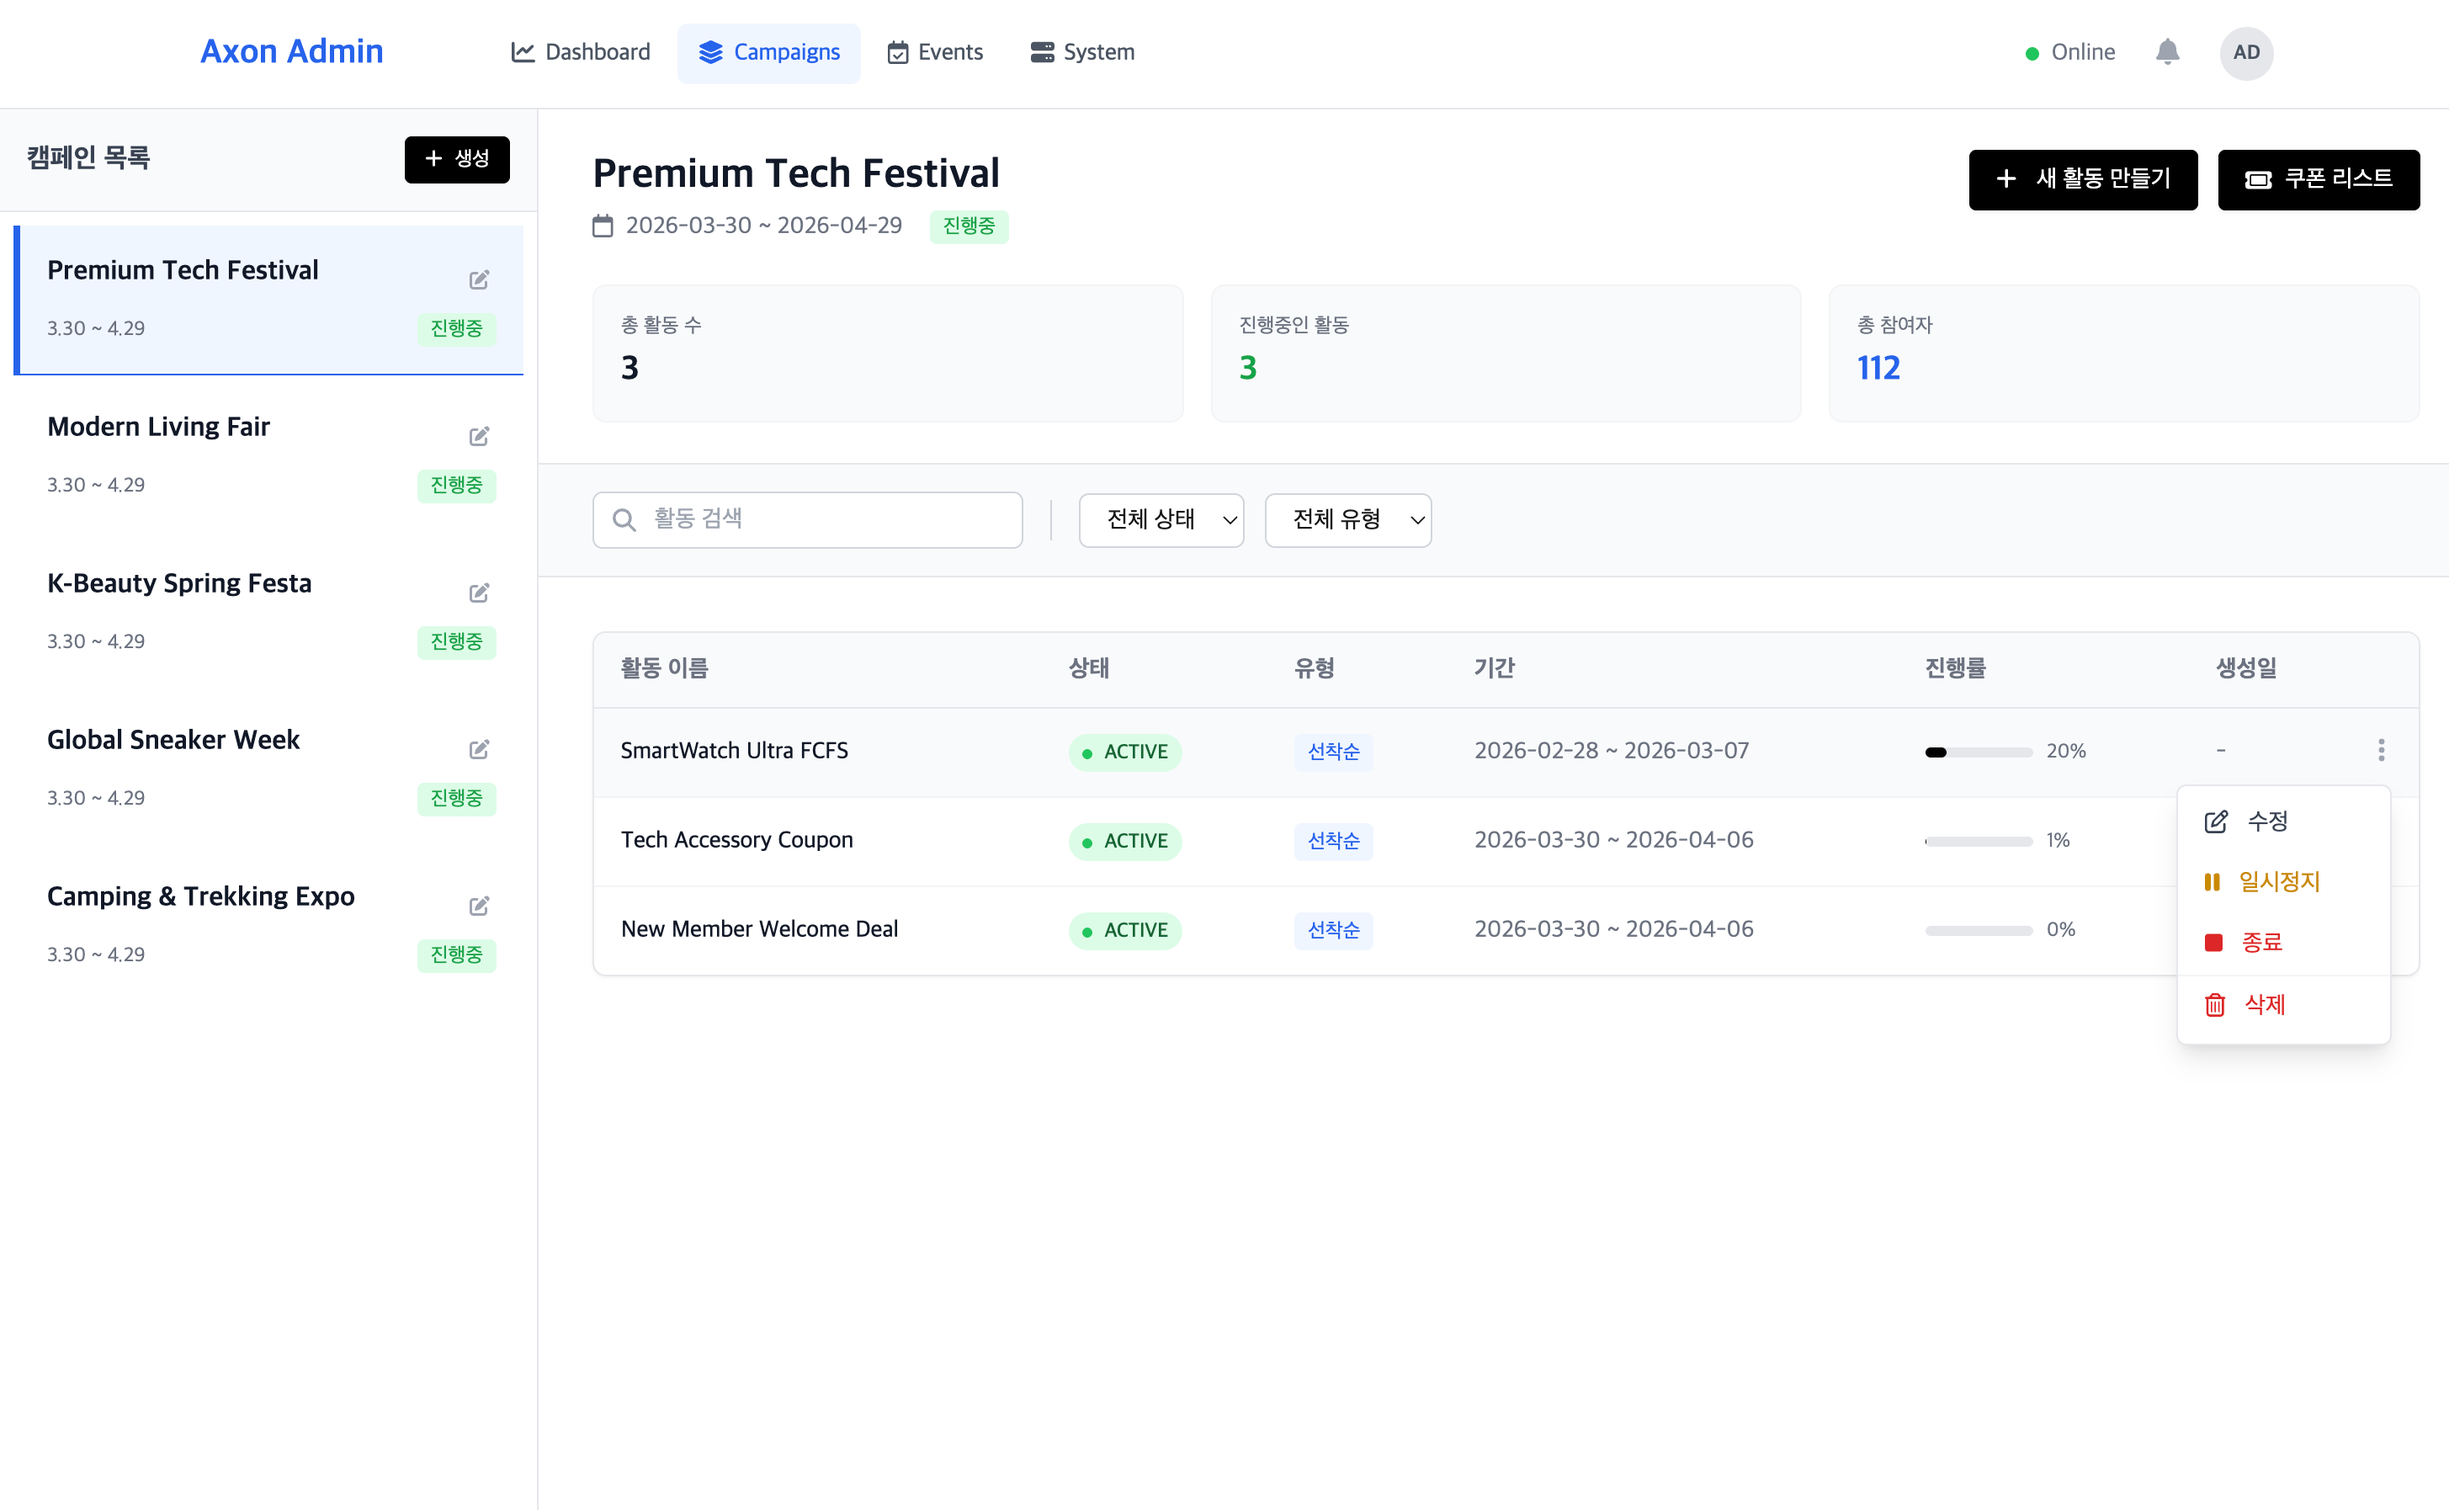
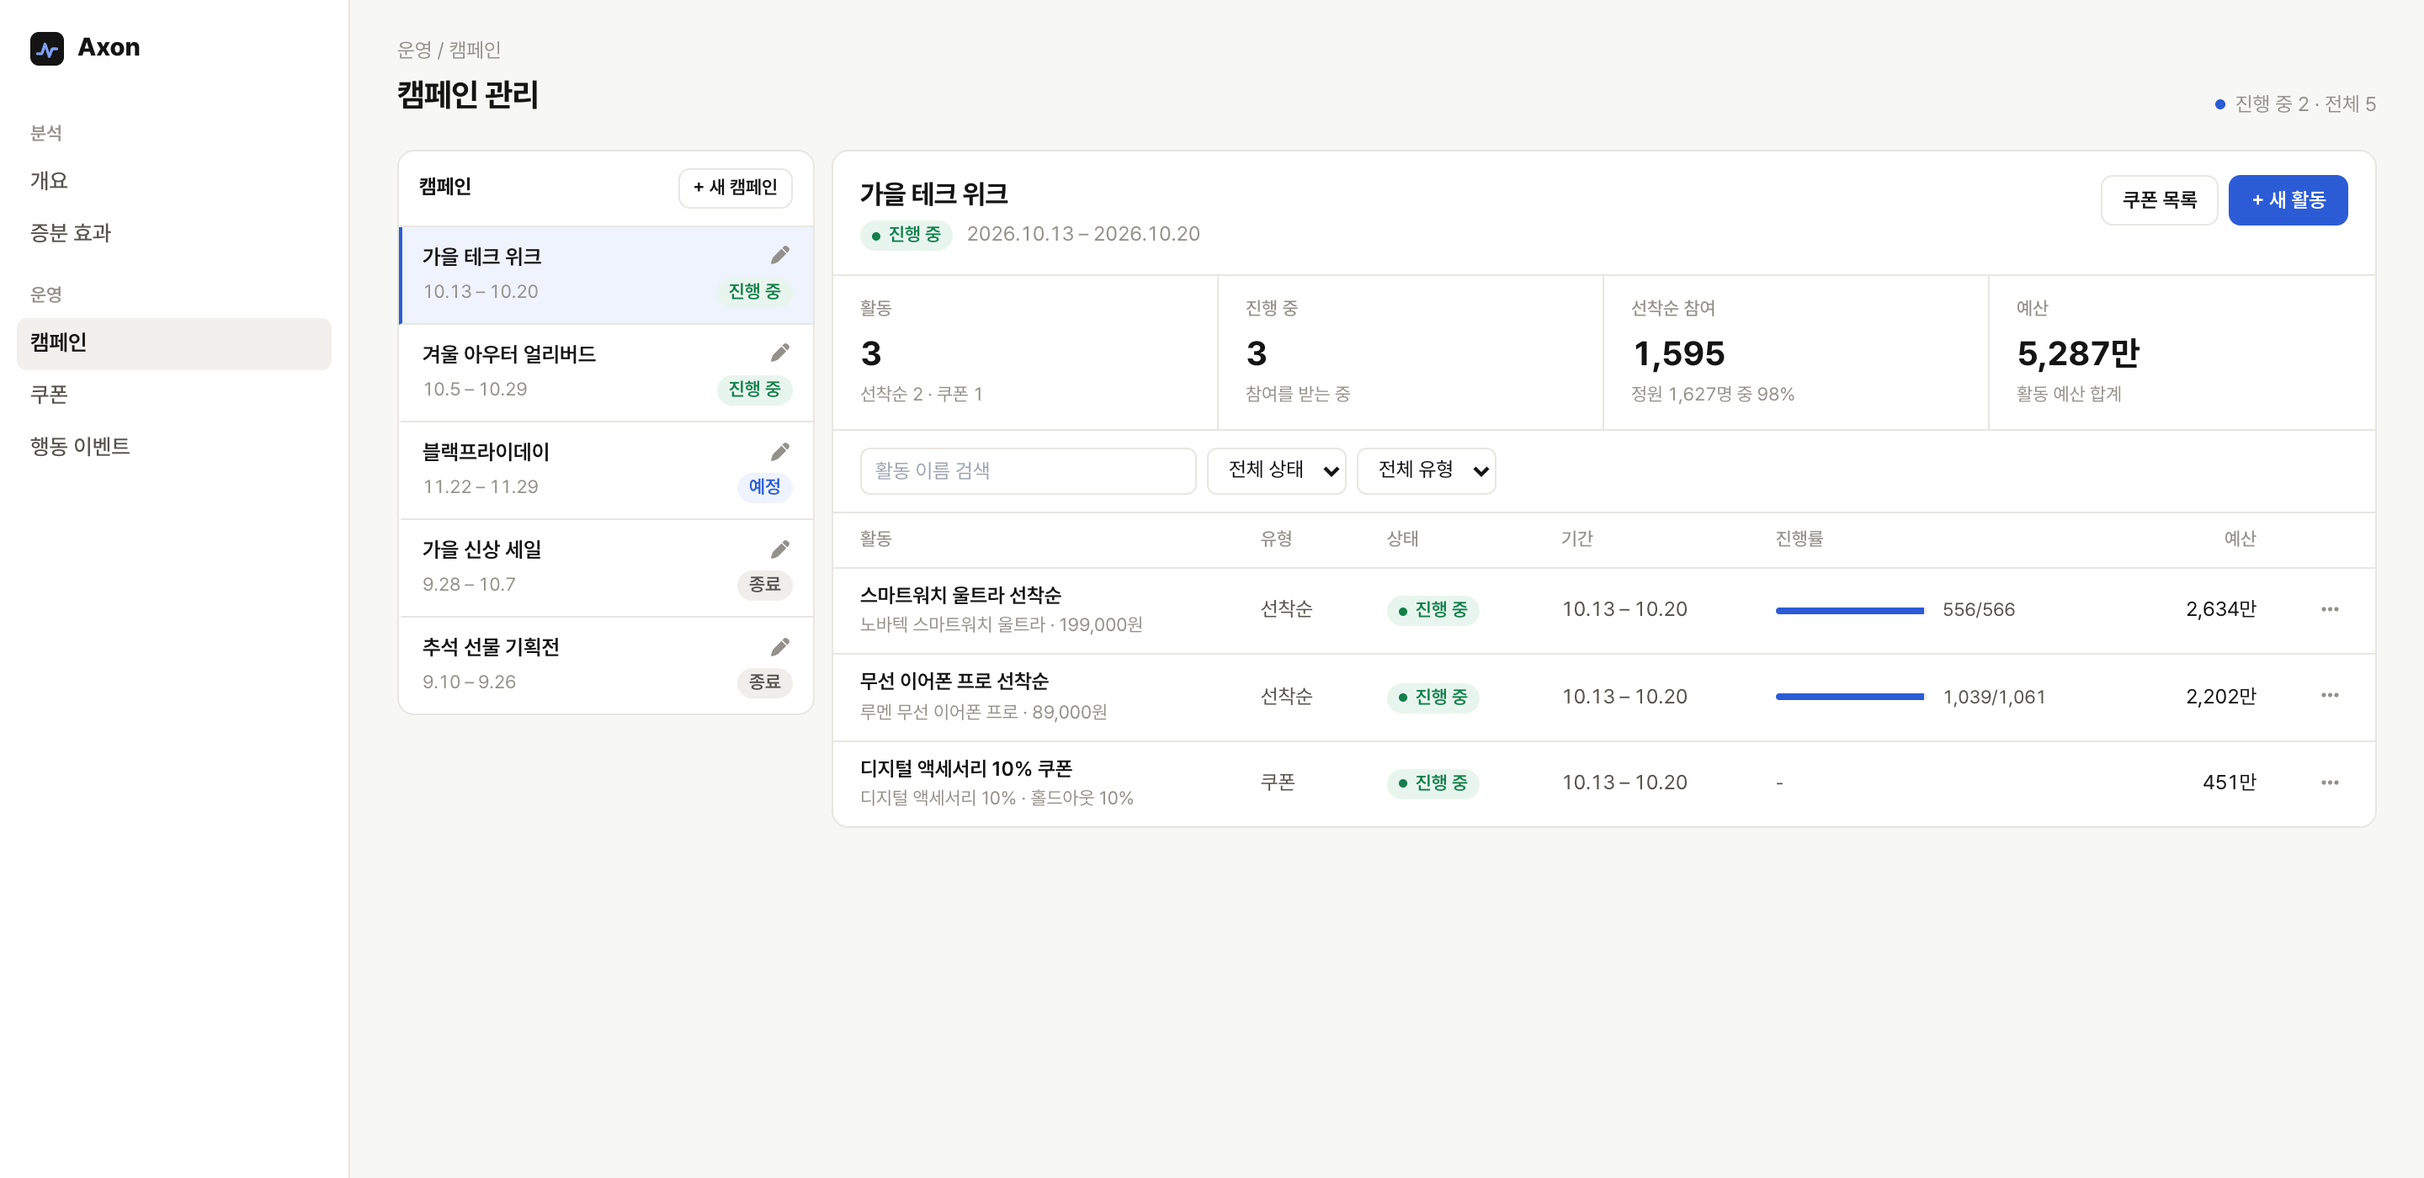
docs: replace README screens with the redesigned console and storefront
Adds the FCFS entry flow GIF, the realtime activity dashboard, the
incrementality screen and the customer profile, and recaptures campaign
management and the overview on the demo seed. The cohort screen is no
longer shown.

diff --git a/README.md b/README.md
@@ -67,31 +67,47 @@ flowchart LR
 
 ## 주요 화면
 
-### 마케팅 대시보드
+### 선착순 참여
 
 <p align="center">
-  <img src="./docs/assets/recordings/dashboard_overview.png" width="850" alt="전체 캠페인 성과 대시보드" />
+  <img src="./docs/assets/recordings/fcfs_flow.gif" width="850" alt="선착순 상품 응모부터 결제 창까지" />
 </p>
 
-전체 캠페인의 매출과 전환 지표를 한 화면에서 확인합니다.
+고객이 응모하면 Entry 서비스가 Redis에서 재고를 예약하고, 구매 자격을 받은 고객에게만 결제 창을 엽니다.
+
+### 캠페인 운영
 
 <p align="center">
   <img src="./docs/assets/recordings/campaign_admin.png" width="850" alt="캠페인 관리 화면" />
 </p>
 
-캠페인과 세부 활동의 상태, 기간, 수량을 관리합니다.
+캠페인별 선착순·쿠폰·경품 활동의 상태, 정원 대비 참여, 예산을 관리합니다.
 
 <p align="center">
-  <img src="./docs/assets/recordings/dashboard_11.png" width="850" alt="캠페인 활동 분석 화면" />
+  <img src="./docs/assets/recordings/activity_dashboard.png" width="850" alt="선착순 활동 실시간 대시보드" />
 </p>
 
-개별 활동의 참여 추이와 유입 데이터를 확인합니다.
+선착순 활동의 남은 재고, 방문부터 결제까지의 퍼널, 시간대별 방문을 5초마다 갱신합니다.
+
+### 마케팅 분석
 
 <p align="center">
-  <img src="./docs/assets/recordings/dashboard_cohort.png" width="850" alt="코호트 분석 화면" />
+  <img src="./docs/assets/recordings/dashboard_overview.png" width="850" alt="전체 캠페인 개요" />
 </p>
 
-이벤트로 유입된 고객의 이후 구매와 재구매를 코호트 기준으로 조회합니다.
+최근 30일 캠페인별 거래액과 ROAS를 비교합니다. 캠페인이 보낸 쿠폰으로 산 구매는 쿠폰 → 발송 기록 → 캠페인 순으로 따라가 해당 캠페인 매출에 넣습니다.
+
+<p align="center">
+  <img src="./docs/assets/recordings/incrementality.png" width="850" alt="쿠폰 발송 증분 효과" />
+</p>
+
+쿠폰 대상 일부를 받지 않는 그룹으로 남겨 두고, 두 그룹의 1인당 매출 차이로 쿠폰 때문에 늘어난 매출만 계산합니다.
+
+<p align="center">
+  <img src="./docs/assets/recordings/customer_profile.png" width="850" alt="고객 프로필" />
+</p>
+
+고객 한 명의 구매·쿠폰 이력과 Elasticsearch에 쌓인 행동 로그를 한 화면에 모읍니다.
 
 ### 실패 분석과 관리자 승인
 
